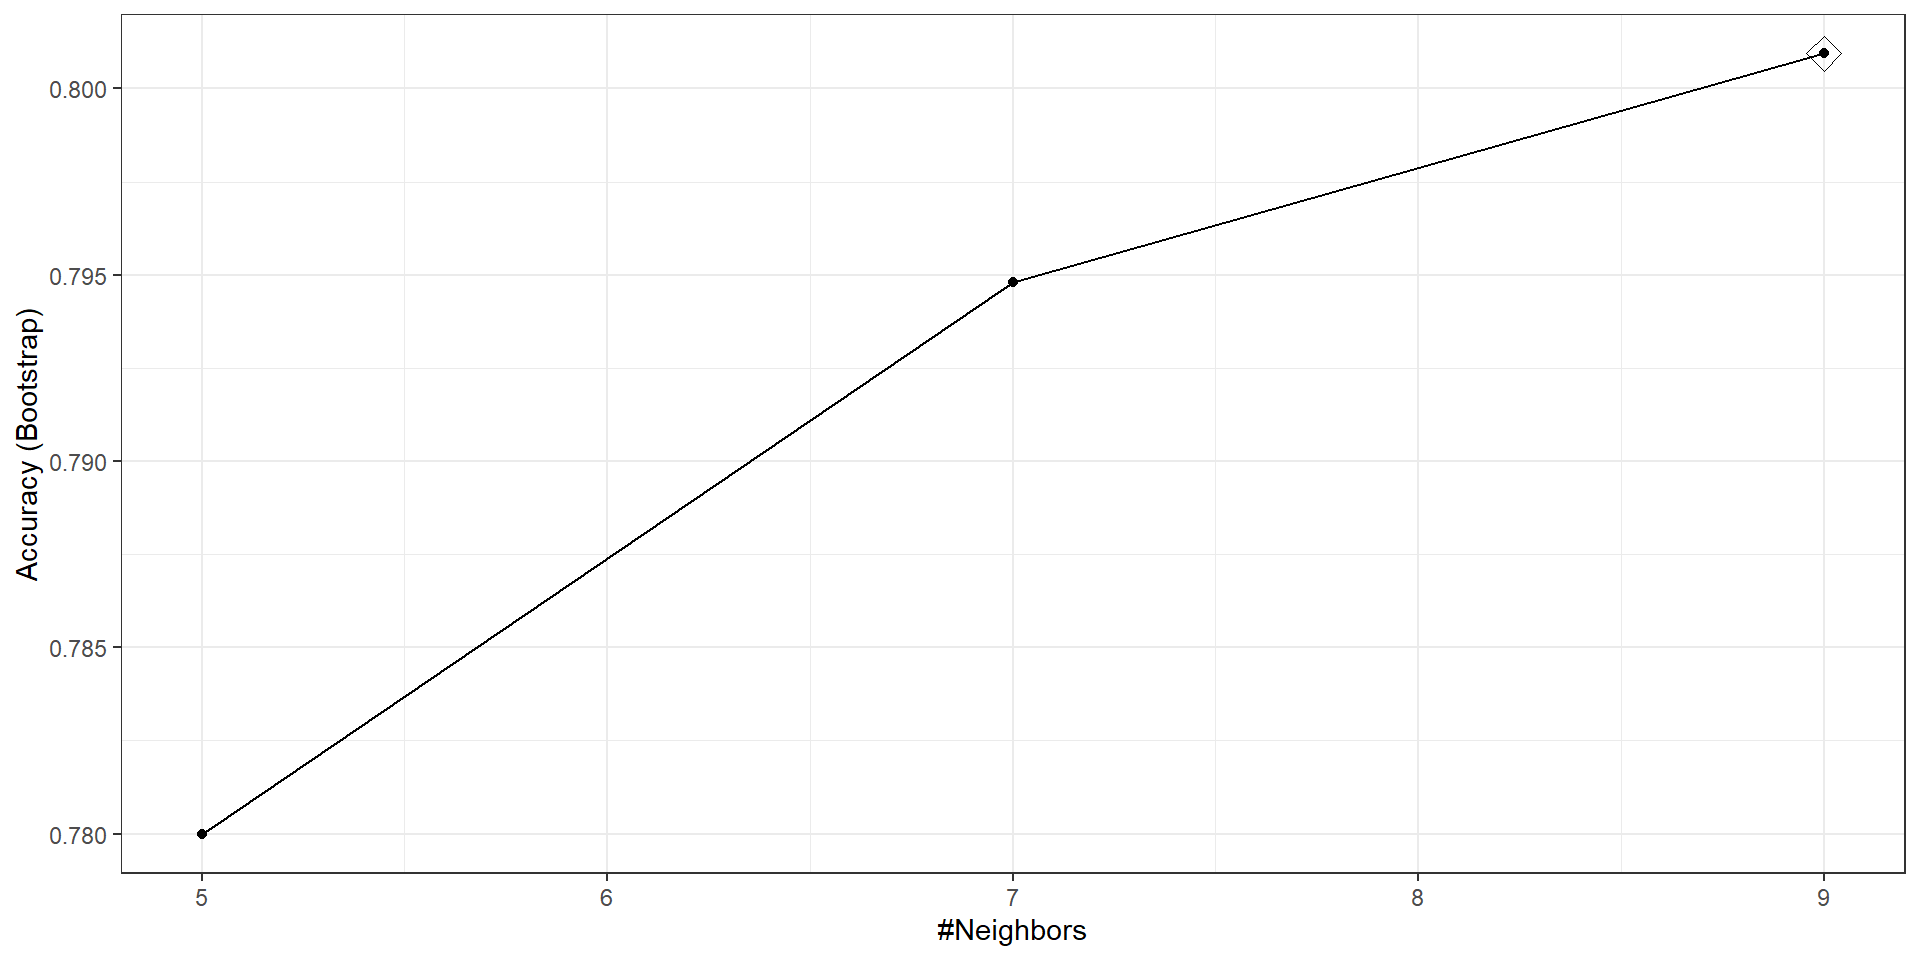
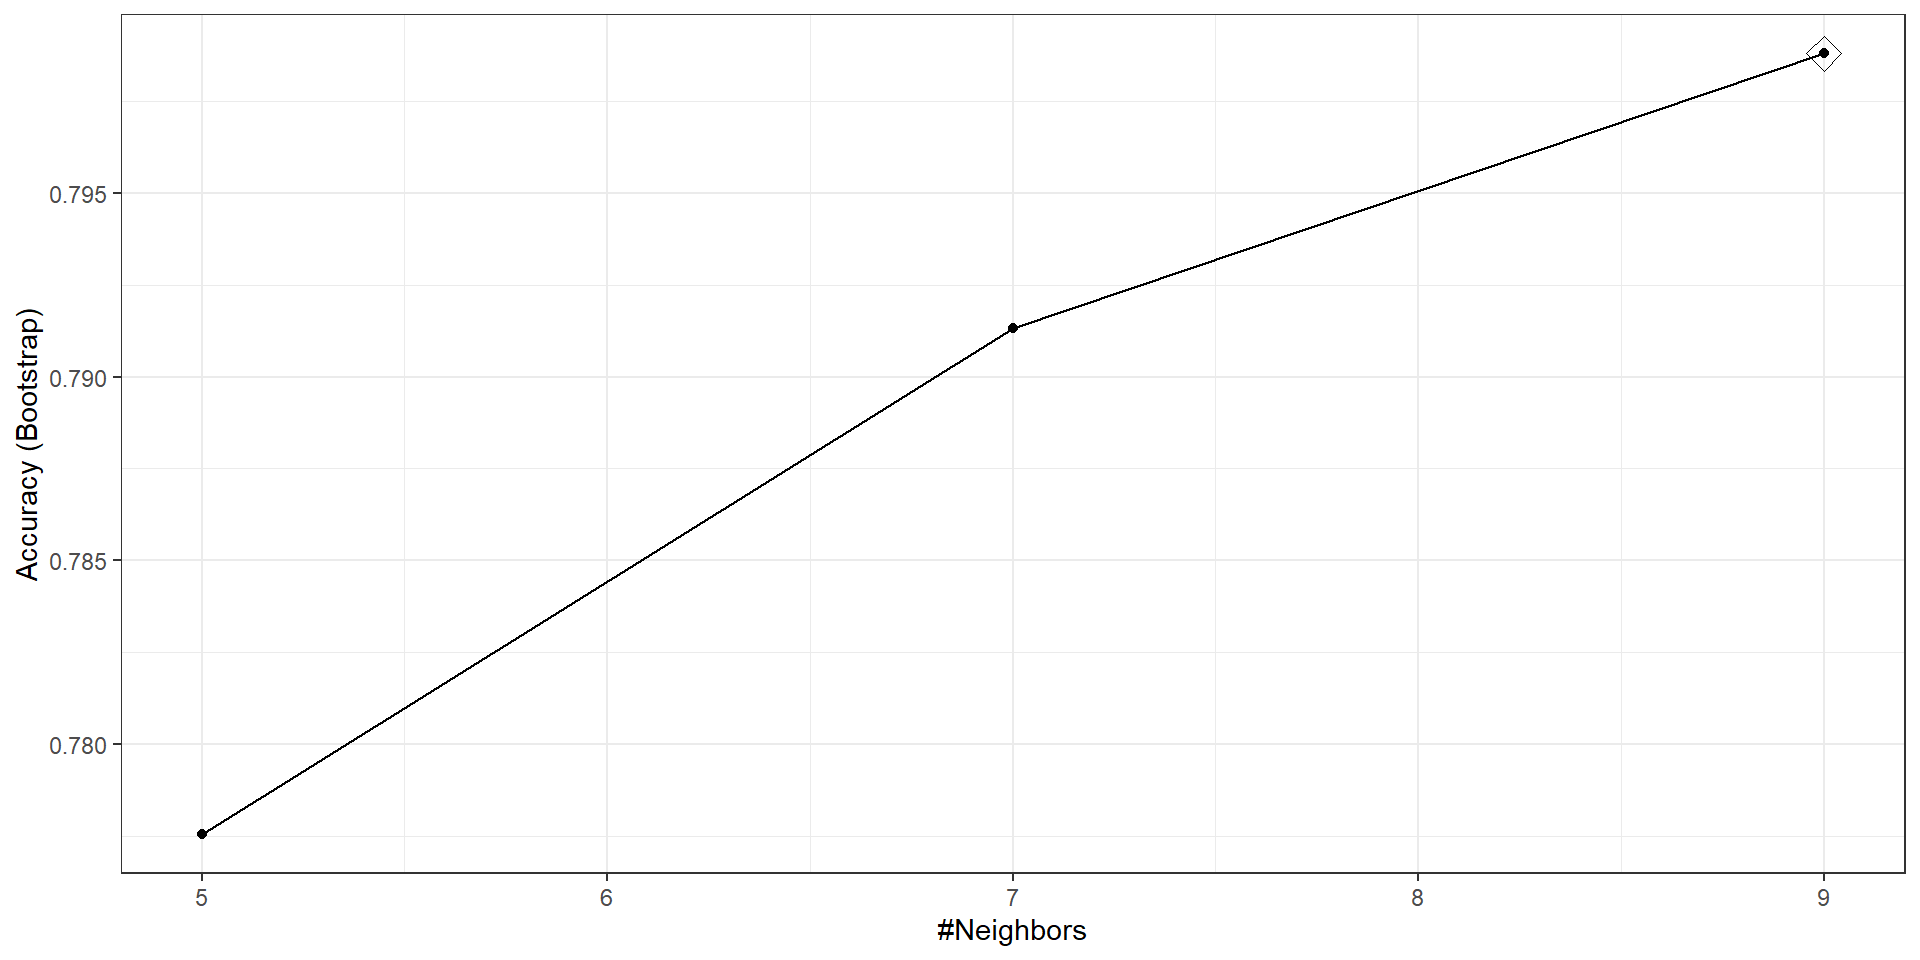
Update schedule for ML lectures.

diff --git a/docs/index.html b/docs/index.html
@@ -321,15 +321,15 @@ ul.task-list li input[type="checkbox"] {
 <tr class="even">
 <td style="text-align: left;">Dec 08, Dec 10</td>
 <td style="text-align: left;">Machine Learning</td>
-<td style="text-align: left;"><a href="./slides/ml/41-knn.html">kNN</a>, <a href="./slides/ml/42-resampling-methods.html">Resampling Methods</a>, <a href="./slides/ml/43-caret.html">caret Package</a></td>
-<td style="text-align: left;"><a href="https://rafalab.dfci.harvard.edu/dsbook-part-2/ml/resampling-methods.html">Resampling Methods</a></td>
+<td style="text-align: left;"><a href="./slides/ml/41-knn.html">kNN</a>, <a href="./slides/ml/42-resampling-methods.html">Resampling Methods</a>, <a href="./slides/ml/43-caret.html">caret Package</a>, <a href="./slides/ml/44-algorithms.html">Algorithms</a></td>
+<td style="text-align: left;"><a href="https://rafalab.dfci.harvard.edu/dsbook-part-2/ml/resampling-methods.html">Resampling Methods</a>, <a href="https://rafalab.dfci.harvard.edu/dsbook-part-2/ml/algorithms.html">ML Algorithms</a></td>
 <td style="text-align: left;">Anthony</td>
 </tr>
 <tr class="odd">
 <td style="text-align: left;">Dec 15</td>
 <td style="text-align: left;">Machine Learning</td>
-<td style="text-align: left;"><a href="./slides/ml/44-algorithms.html">Algorithms</a>, <a href="./slides/ml/45-ml-in-practice.html">ML in Practice</a></td>
-<td style="text-align: left;"><a href="https://rafalab.dfci.harvard.edu/dsbook-part-2/ml/algorithms.html">ML Algorithms</a>, <a href="https://rafalab.dfci.harvard.edu/dsbook-part-2/ml/ml-in-practice.html">ML in Practice</a></td>
+<td style="text-align: left;"><a href="./slides/ml/45-ml-in-practice.html">ML in Practice</a></td>
+<td style="text-align: left;"><a href="https://rafalab.dfci.harvard.edu/dsbook-part-2/ml/ml-in-practice.html">ML in Practice</a></td>
 <td style="text-align: left;">Anthony</td>
 </tr>
 <tr class="even">

diff --git a/docs/slides.html b/docs/slides.html
@@ -816,7 +816,7 @@ Date
 
 </tr>
 
-<tr data-index="43" data-listing-date-sort="1765342800000" data-listing-file-modified-sort="1763415723532" data-listing-date-modified-sort="NaN" data-listing-reading-time-sort="9" data-listing-word-count-sort="1635" data-listing-title-sort="The caret package" data-listing-filename-sort="43-caret.qmd">
+<tr data-index="43" data-listing-date-sort="1765170000000" data-listing-file-modified-sort="1765052423577" data-listing-date-modified-sort="NaN" data-listing-reading-time-sort="9" data-listing-word-count-sort="1635" data-listing-title-sort="The caret package" data-listing-filename-sort="43-caret.qmd">
 <td>
 <span class="listing-keywords">Machine Learning</span>
 </td>
@@ -824,12 +824,12 @@ Date
 <a href="./slides/ml/43-caret.html" class="title listing-title">The caret package</a>
 </td>
 <td>
-<span class="listing-date">Wed, Dec 10</span>
+<span class="listing-date">Mon, Dec 08</span>
 </td>
 
 </tr>
 
-<tr data-index="44" data-listing-date-sort="1765774800000" data-listing-file-modified-sort="1762147757709" data-listing-date-modified-sort="NaN" data-listing-reading-time-sort="14" data-listing-word-count-sort="2692" data-listing-title-sort="Algorithms" data-listing-filename-sort="44-algorithms.qmd">
+<tr data-index="44" data-listing-date-sort="1765342800000" data-listing-file-modified-sort="1765052416844" data-listing-date-modified-sort="NaN" data-listing-reading-time-sort="14" data-listing-word-count-sort="2692" data-listing-title-sort="Algorithms" data-listing-filename-sort="44-algorithms.qmd">
 <td>
 <span class="listing-keywords">Machine Learning</span>
 </td>
@@ -837,7 +837,7 @@ Date
 <a href="./slides/ml/44-algorithms.html" class="title listing-title">Algorithms</a>
 </td>
 <td>
-<span class="listing-date">Mon, Dec 15</span>
+<span class="listing-date">Wed, Dec 10</span>
 </td>
 
 </tr>

diff --git a/docs/slides/ml/44-algorithms.html b/docs/slides/ml/44-algorithms.html
@@ -9,7 +9,7 @@
 <link href="../../site_libs/quarto-html/quarto-syntax-highlighting-dark-2fef5ea3f8957b3e4ecc936fc74692ca.css" rel="stylesheet" id="quarto-text-highlighting-styles"><meta charset="utf-8">
   <meta name="generator" content="quarto-1.7.32">
 
-  <meta name="dcterms.date" content="2025-12-15">
+  <meta name="dcterms.date" content="2025-12-10">
   <meta name="keywords" content="Machine Learning">
   <title>BST 260: Introduction to Data Science – Algorithms</title>
   <meta name="apple-mobile-web-app-capable" content="yes">
@@ -199,7 +199,7 @@
 <div class="quarto-title-authors">
 </div>
 
-  <p class="date">2025-12-15</p>
+  <p class="date">2025-12-10</p>
 </section>
 <section id="examples-of-algorithms" class="slide level2">
 <h2>Examples of algorithms</h2>

diff --git a/docs/slides/ml/43-caret.html b/docs/slides/ml/43-caret.html
@@ -9,7 +9,7 @@
 <link href="../../site_libs/quarto-html/quarto-syntax-highlighting-dark-2fef5ea3f8957b3e4ecc936fc74692ca.css" rel="stylesheet" id="quarto-text-highlighting-styles"><meta charset="utf-8">
   <meta name="generator" content="quarto-1.7.32">
 
-  <meta name="dcterms.date" content="2025-12-10">
+  <meta name="dcterms.date" content="2025-12-08">
   <meta name="keywords" content="Machine Learning">
   <title>BST 260: Introduction to Data Science – The caret package</title>
   <meta name="apple-mobile-web-app-capable" content="yes">
@@ -199,7 +199,7 @@
 <div class="quarto-title-authors">
 </div>
 
-  <p class="date">2025-12-10</p>
+  <p class="date">2025-12-08</p>
 </section>
 <section id="the-caret-package" class="slide level2">
 <h2>The caret package</h2>
